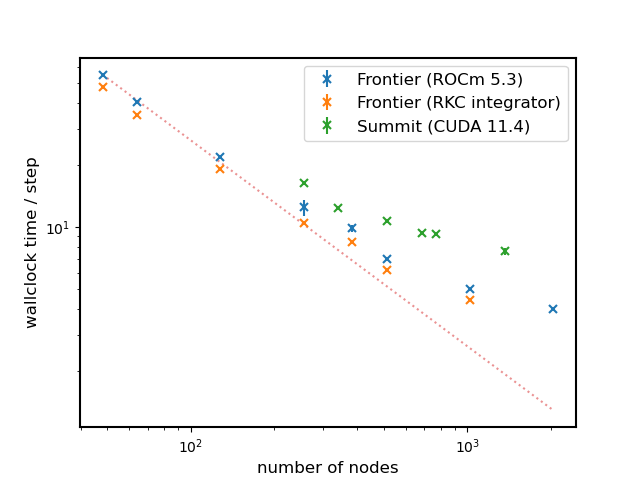
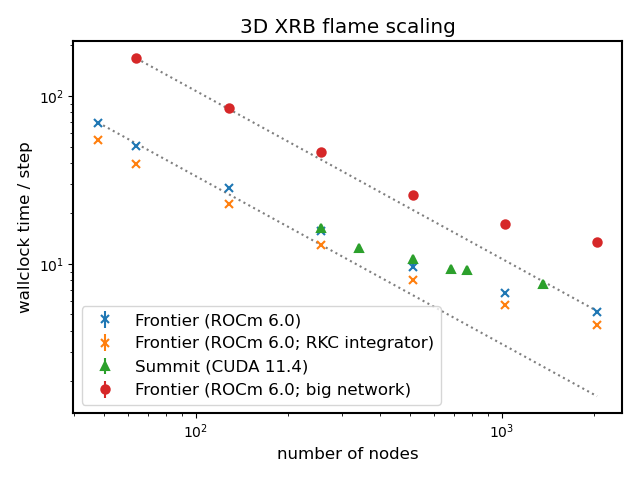
some new scaling numbers on Frontier (#2904)

diff --git a/Exec/science/flame_wave/scaling/frontier/frontier_scaling.py b/Exec/science/flame_wave/scaling/frontier/frontier_scaling.py
@@ -9,13 +9,13 @@ plt.rcParams.update({'xtick.labelsize': 10,
 plt.rc("axes", linewidth=1.5)
 plt.rc("lines", markeredgewidth=1.5)
 
-frontier_data = np.loadtxt("frontier-scaling-2023-04-06.txt")
+frontier_data = np.loadtxt("frontier-scaling-2024-07-04.txt")
 
 frontier_nodes = frontier_data[:, 0]
 frontier_times = frontier_data[:, 3]
 frontier_std = frontier_data[:, 4]
 
-frontier_rkc_data = np.loadtxt("frontier-scaling-rkc-2023-05-31.txt")
+frontier_rkc_data = np.loadtxt("frontier-scaling-rkc-2024-07-04.txt")
 
 frontier_rkc_nodes = frontier_rkc_data[:, 0]
 frontier_rkc_times = frontier_rkc_data[:, 3]
@@ -26,6 +26,12 @@ summit_data = np.loadtxt("../summit/scaling_20230407.txt")
 summit_nodes = summit_data[:, 0]
 summit_times = summit_data[:, 2]
 summit_std = summit_data[:, 3]
+
+frontier_bignet_data = np.loadtxt("frontier-scaling-2024-07-04-subch_simple.txt")
+
+frontier_bignet_nodes = frontier_bignet_data[:, 0]
+frontier_bignet_times = frontier_bignet_data[:, 3]
+frontier_bignet_std = frontier_bignet_data[:, 4]
 
 
 def trend_line(c, t):
@@ -39,12 +45,21 @@ def trend_line(c, t):
 
 fig, ax = plt.subplots(1)
 
-ax.errorbar(frontier_nodes, frontier_times, yerr=frontier_std, ls="None", marker="x", label="Frontier (ROCm 5.3)")
-ax.errorbar(frontier_rkc_nodes, frontier_rkc_times, yerr=frontier_rkc_std, ls="None", marker="x", label="Frontier (RKC integrator)")
-ax.errorbar(summit_nodes, summit_times, yerr=summit_std, ls="None", marker="x", label="Summit (CUDA 11.4)")
+ax.errorbar(frontier_nodes, frontier_times, yerr=frontier_std,
+            ls="None", marker="x", label="Frontier (ROCm 6.0)")
+ax.errorbar(frontier_rkc_nodes, frontier_rkc_times, yerr=frontier_rkc_std,
+            ls="None", marker="x", label="Frontier (ROCm 6.0; RKC integrator)")
+ax.errorbar(summit_nodes, summit_times, yerr=summit_std,
+            ls="None", marker="^", label="Summit (CUDA 11.4)")
+ax.errorbar(frontier_bignet_nodes, frontier_bignet_times, yerr=frontier_bignet_std,
+            ls="None", marker="o", label="Frontier (ROCm 6.0; big network)")
 
 c, t = trend_line(frontier_nodes, frontier_times)
-ax.plot(c, t, alpha=0.5, linestyle=":")
+ax.plot(c, t, alpha=0.5, linestyle=":", color="k")
+
+c, t = trend_line(frontier_bignet_nodes, frontier_bignet_times)
+ax.plot(c, t, alpha=0.5, linestyle=":", color="k")
+
 
 ax.set_ylabel("wallclock time / step")
 ax.set_xlabel("number of nodes")
@@ -54,28 +69,7 @@ ax.set_yscale("log")
 
 ax.legend()
 
+ax.set_title("3D XRB flame scaling")
+
+fig.tight_layout()
 fig.savefig("frontier_flame_wave_scaling.png")
-
-
-# now by GPUs
-
-fig, ax = plt.subplots(1)
-
-nfrontier_gpu = 8
-nsummit_gpu = 6
-
-ax.errorbar(frontier_nodes * nfrontier_gpu, frontier_times, yerr=frontier_std, ls="None", marker="x", label="Frontier (ROCm 5.3)")
-ax.errorbar(summit_nodes * nsummit_gpu, summit_times, yerr=summit_std, ls="None", marker="x", label="Summit (CUDA 11.4)")
-
-c, t = trend_line(frontier_nodes * nfrontier_gpu, frontier_times)
-ax.plot(c, t, alpha=0.5, linestyle=":")
-
-ax.set_ylabel("wallclock time / step")
-ax.set_xlabel("number of GPUs")
-
-ax.set_xscale("log")
-ax.set_yscale("log")
-
-ax.legend()
-
-fig.savefig("frontier_flame_wave_scaling_by_gpus.png")
